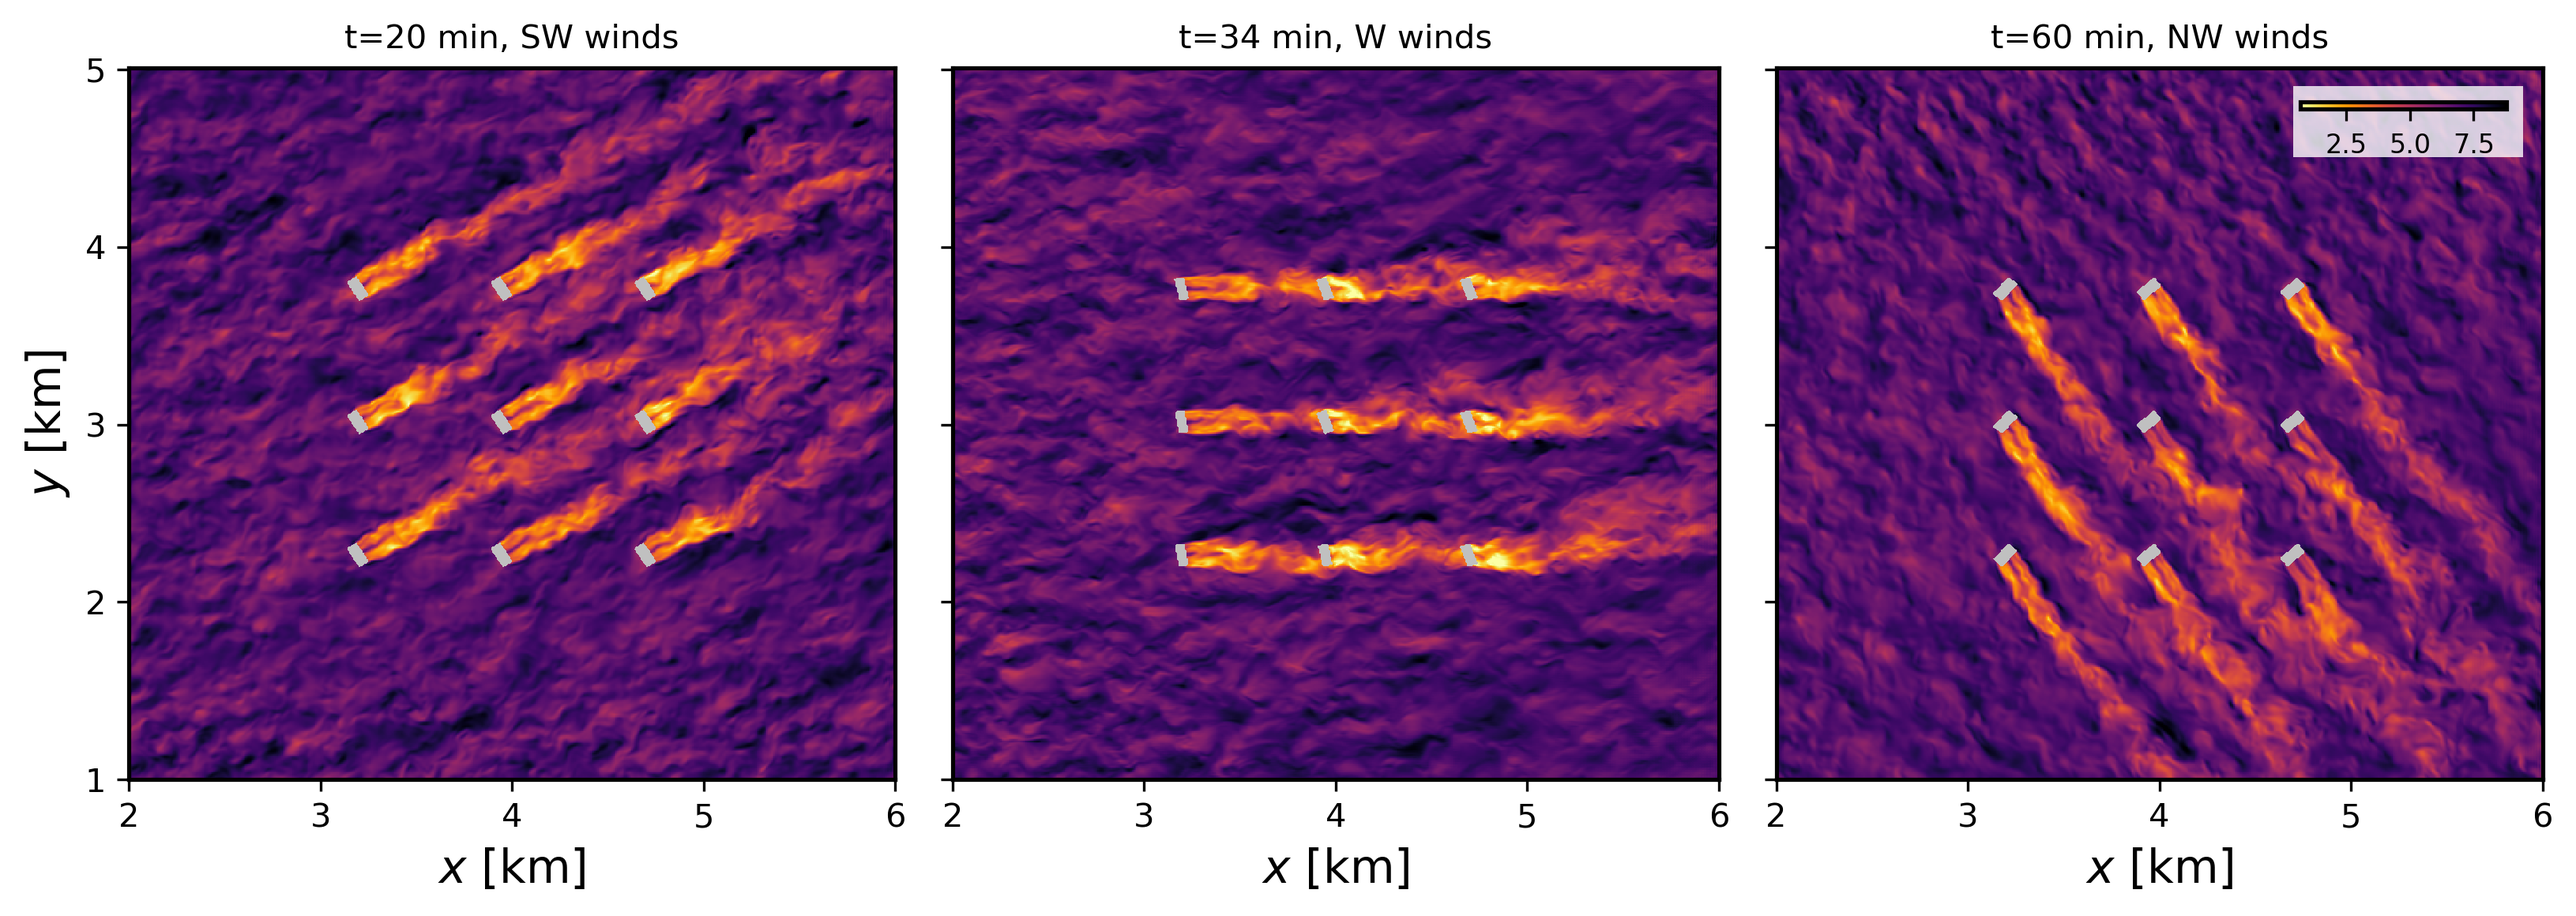
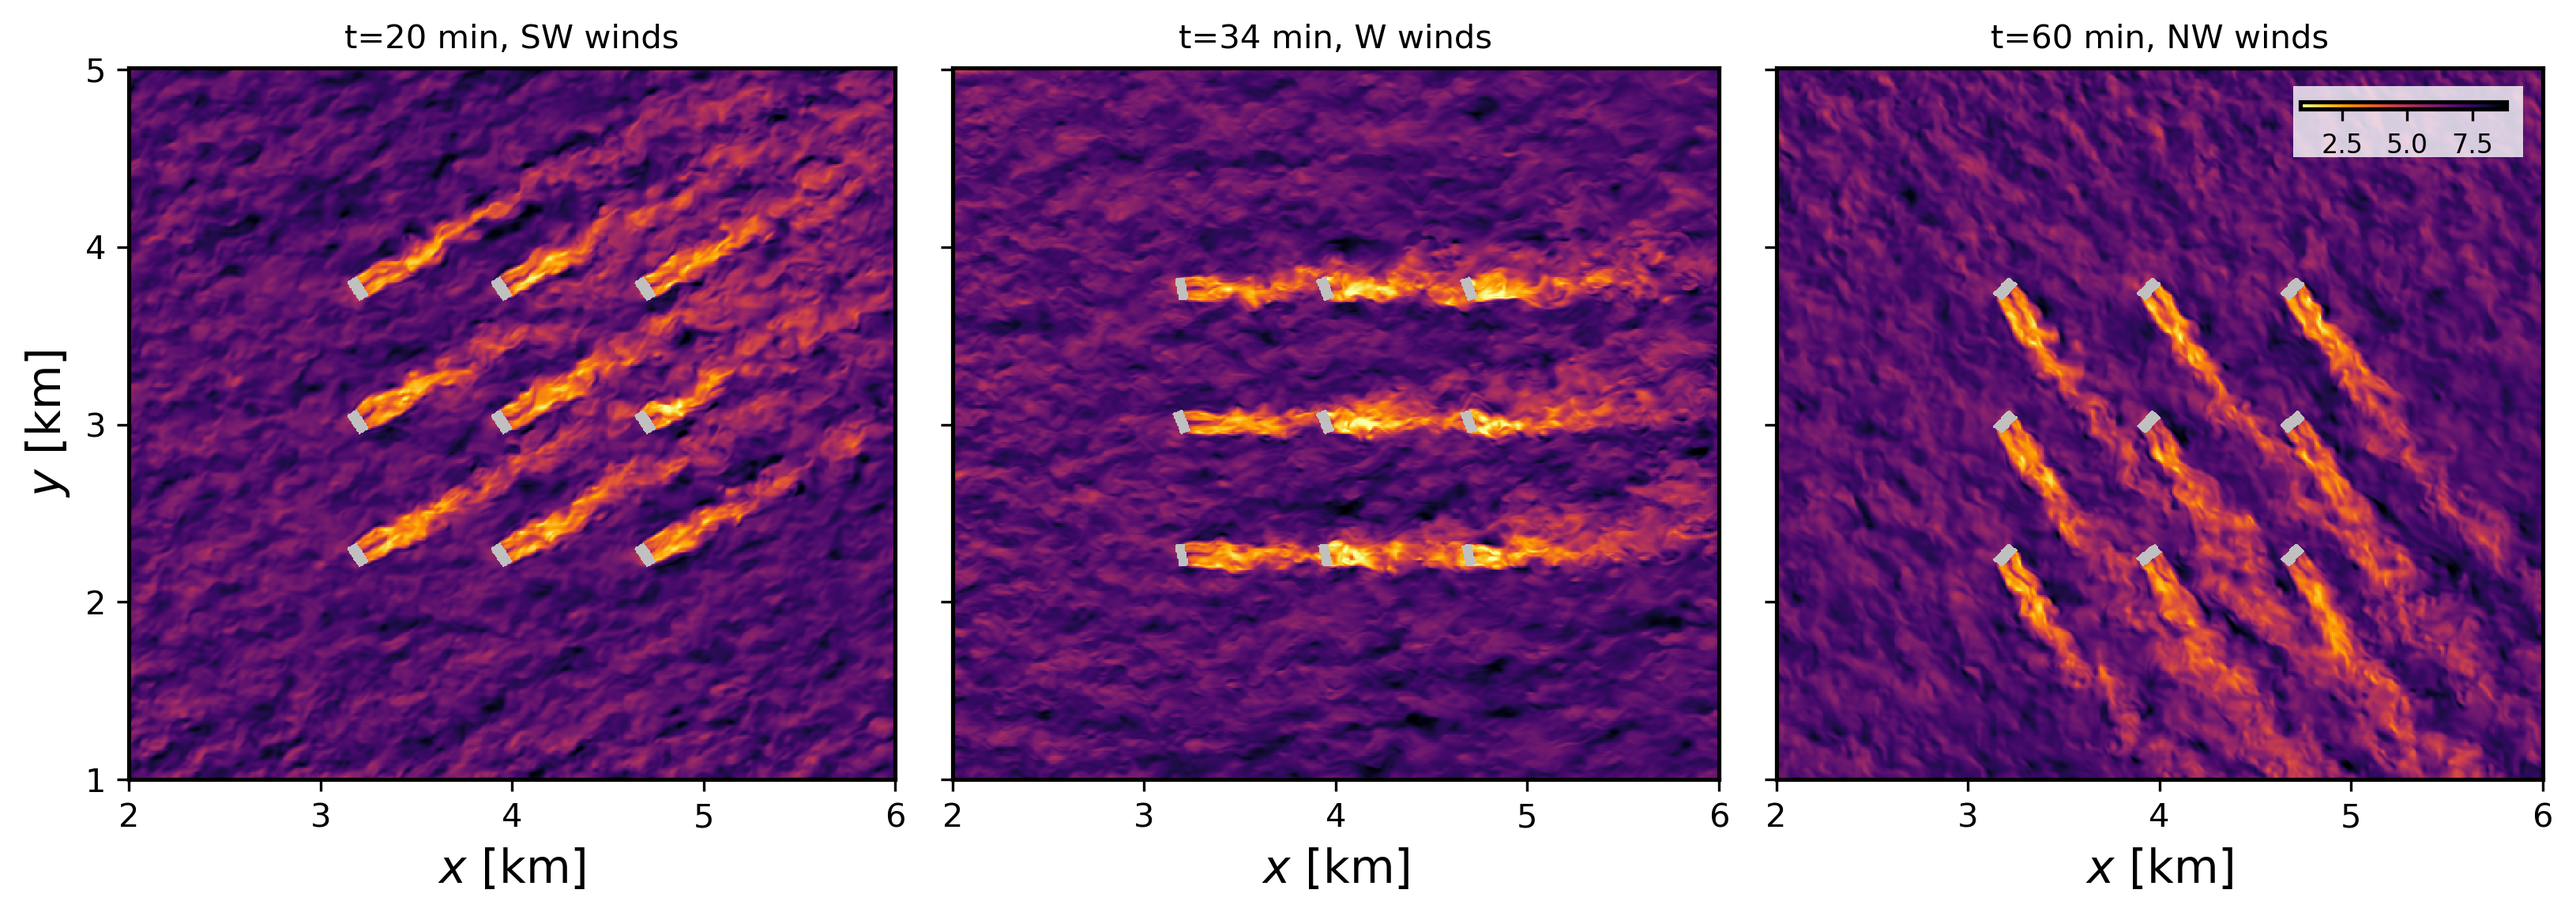
Updated gad/urban plots, fix to Example10 params file and adjustments to GAD text

diff --git a/docs/Tutorials/cases/GAD.rst b/docs/Tutorials/cases/GAD.rst
@@ -2,9 +2,9 @@
 Flow in the presence of a turbine array under a wind shift
 ==========================================================
 
-This is an idealized scenario of wind farm (3 x 3 turbine array) flow in neutrally stratified boundary layer undergoing a change in wind direction of 90 degrees over 40 minutes. This idealized scenario demonstrates the generalized actuator disk (GAD) implementation in FastEddy (*Sanchez Gomez et al., 2024* [#f1]_), with the inclusion of a turbine yawing capability to align with the meteorological wind direction at the turbine's nacelle. The initial and boundary conditions for this idealized case are derived from a horizontally averaged LES run of a neutral ABL with a geostrophic wind aligned in the zonal direction (:math:`[U_g,V_g]=[10.0,0.0]` m/s) with and a latitude of :math:`40.0^{\circ}` N. The required datasets to run this tutorial are provided at this Zenodo record [TO BE UPDATED].
+This is an idealized scenario of wind farm (3 x 3 turbine array) flow in neutrally stratified boundary layer with an evolving wind direction spanning 90 degrees of clockwise turning over 40 minutes. This idealized scenario demonstrates the generalized actuator disk (GAD) implementation in FastEddy (*Sanchez Gomez et al., 2024* [#f1]_), with the inclusion of a turbine yawing capability to align with the meteorological wind direction at the turbine's nacelle. The initial and boundary conditions for this idealized case are derived from a horizontally averaged LES run of a neutral ABL with a geostrophic wind aligned in the zonal direction (:math:`[U_g,V_g]=[10.0,0.0]` m/s) with and a latitude of :math:`40.0^{\circ}` N. The required datasets to run this tutorial are provided at this Zenodo record [TO BE UPDATED].
 
-In order to activate the GAD model, the corresponding selector needs to be turned on (:code:`GADSelector = 1`) in the parameters file. The lines below correspond to additions and modifications to the FastEddy parameters file necessary for turbine-inclusive LES runs (corresponding to the test case from **tutorials/examples/Example09_GAD.in**), particularly for the case when the turbine forces are added to the model's output.
+The GAD model is activated by the selector (:code:`GADSelector = 1`) in the parameters file. This case uses the parameters file **tutorials/examples/Example09_GAD.in**. The lines below correspond to additions to the FastEddy parameters file necessary for turbine-inclusive LES runs. These correspond to the turbine specification file (:code:`turbineSpecsFile`) and a parameter to choose whether or not to write GAD forces to output files (:code:`GADoutputForces`).
 
 .. code-block:: none
 
@@ -13,7 +13,7 @@ In order to activate the GAD model, the corresponding selector needs to be turne
    turbineSpecsFile = ./GAD_NREL28_9WTs_tutorial.nc
    GADoutputForces = 1
 
-A key aspect required for the GAD model to work is the specification of the aerodynamic characteristics of the simulated turbine. These are included in a netCDF file, together with geometrical characteristics of the wind turbine (rotor diameter: :code:`GAD_rotorD`, turbine hub height: :code:`GAD_hubHeights`, nacelle diameter: :code:`GAD_nacelleD`) and the initial location and orientation of the turbines (:code:`GAD_Xcoords`, :code:`GAD_Ycoords`, :code:`GAD_rotorTheta`). Polynomial fits for lift and drag coefficient, twist, chord length, blade pitch, and rotational speed are utilized, discretized over a finite number of normalized blade elements (:code:`rnorm_vect`), required by the blade-element momentum theory used in the GAD formulation. For flexibility purposes, an arbitrary number of turbines can be defined (:code:`GAD_turbineType`). This tutorial provides an example turbine specification file corresponding to NREL28's turbine (**GAD_NREL28_9WTs_tutorial.nc**). All the required variables and dimensions in the turbine specifications file are listed here below.
+A key aspect required for the GAD model to work is the specification of the aerodynamic characteristics of the simulated turbine. The turbine specifications file is a netCDF formatted file that provides the aerodynamic characteristics alongside the geometric characteristics of the wind turbine (rotor diameter: :code:`GAD_rotorD`, turbine hub height: :code:`GAD_hubHeights`, nacelle diameter: :code:`GAD_nacelleD`). The turbine specifications file also informs the location and initial orientation of the turbines (:code:`GAD_Xcoords`, :code:`GAD_Ycoords`, :code:`GAD_rotorTheta`). Aerodynamic characteristics are given as polynomial fits for lift and drag coefficient, twist, chord length, blade pitch, and rotational speed discretized over a finite number of normalized blade elements (:code:`rnorm_vect`), following the blade-element momentum theory used in the GAD formulation. For flexibility purposes, an arbitrary number of turbines (:code:`GAD_turbineType`) can be defined. This tutorial provides an example turbine specification file corresponding to the U.S. Department of Energy NREL28 turbine (**GAD_NREL28_9WTs_tutorial.nc**). All the required variables and dimensions in the turbine specifications file are listed here below.
 
 .. code-block:: none
 
